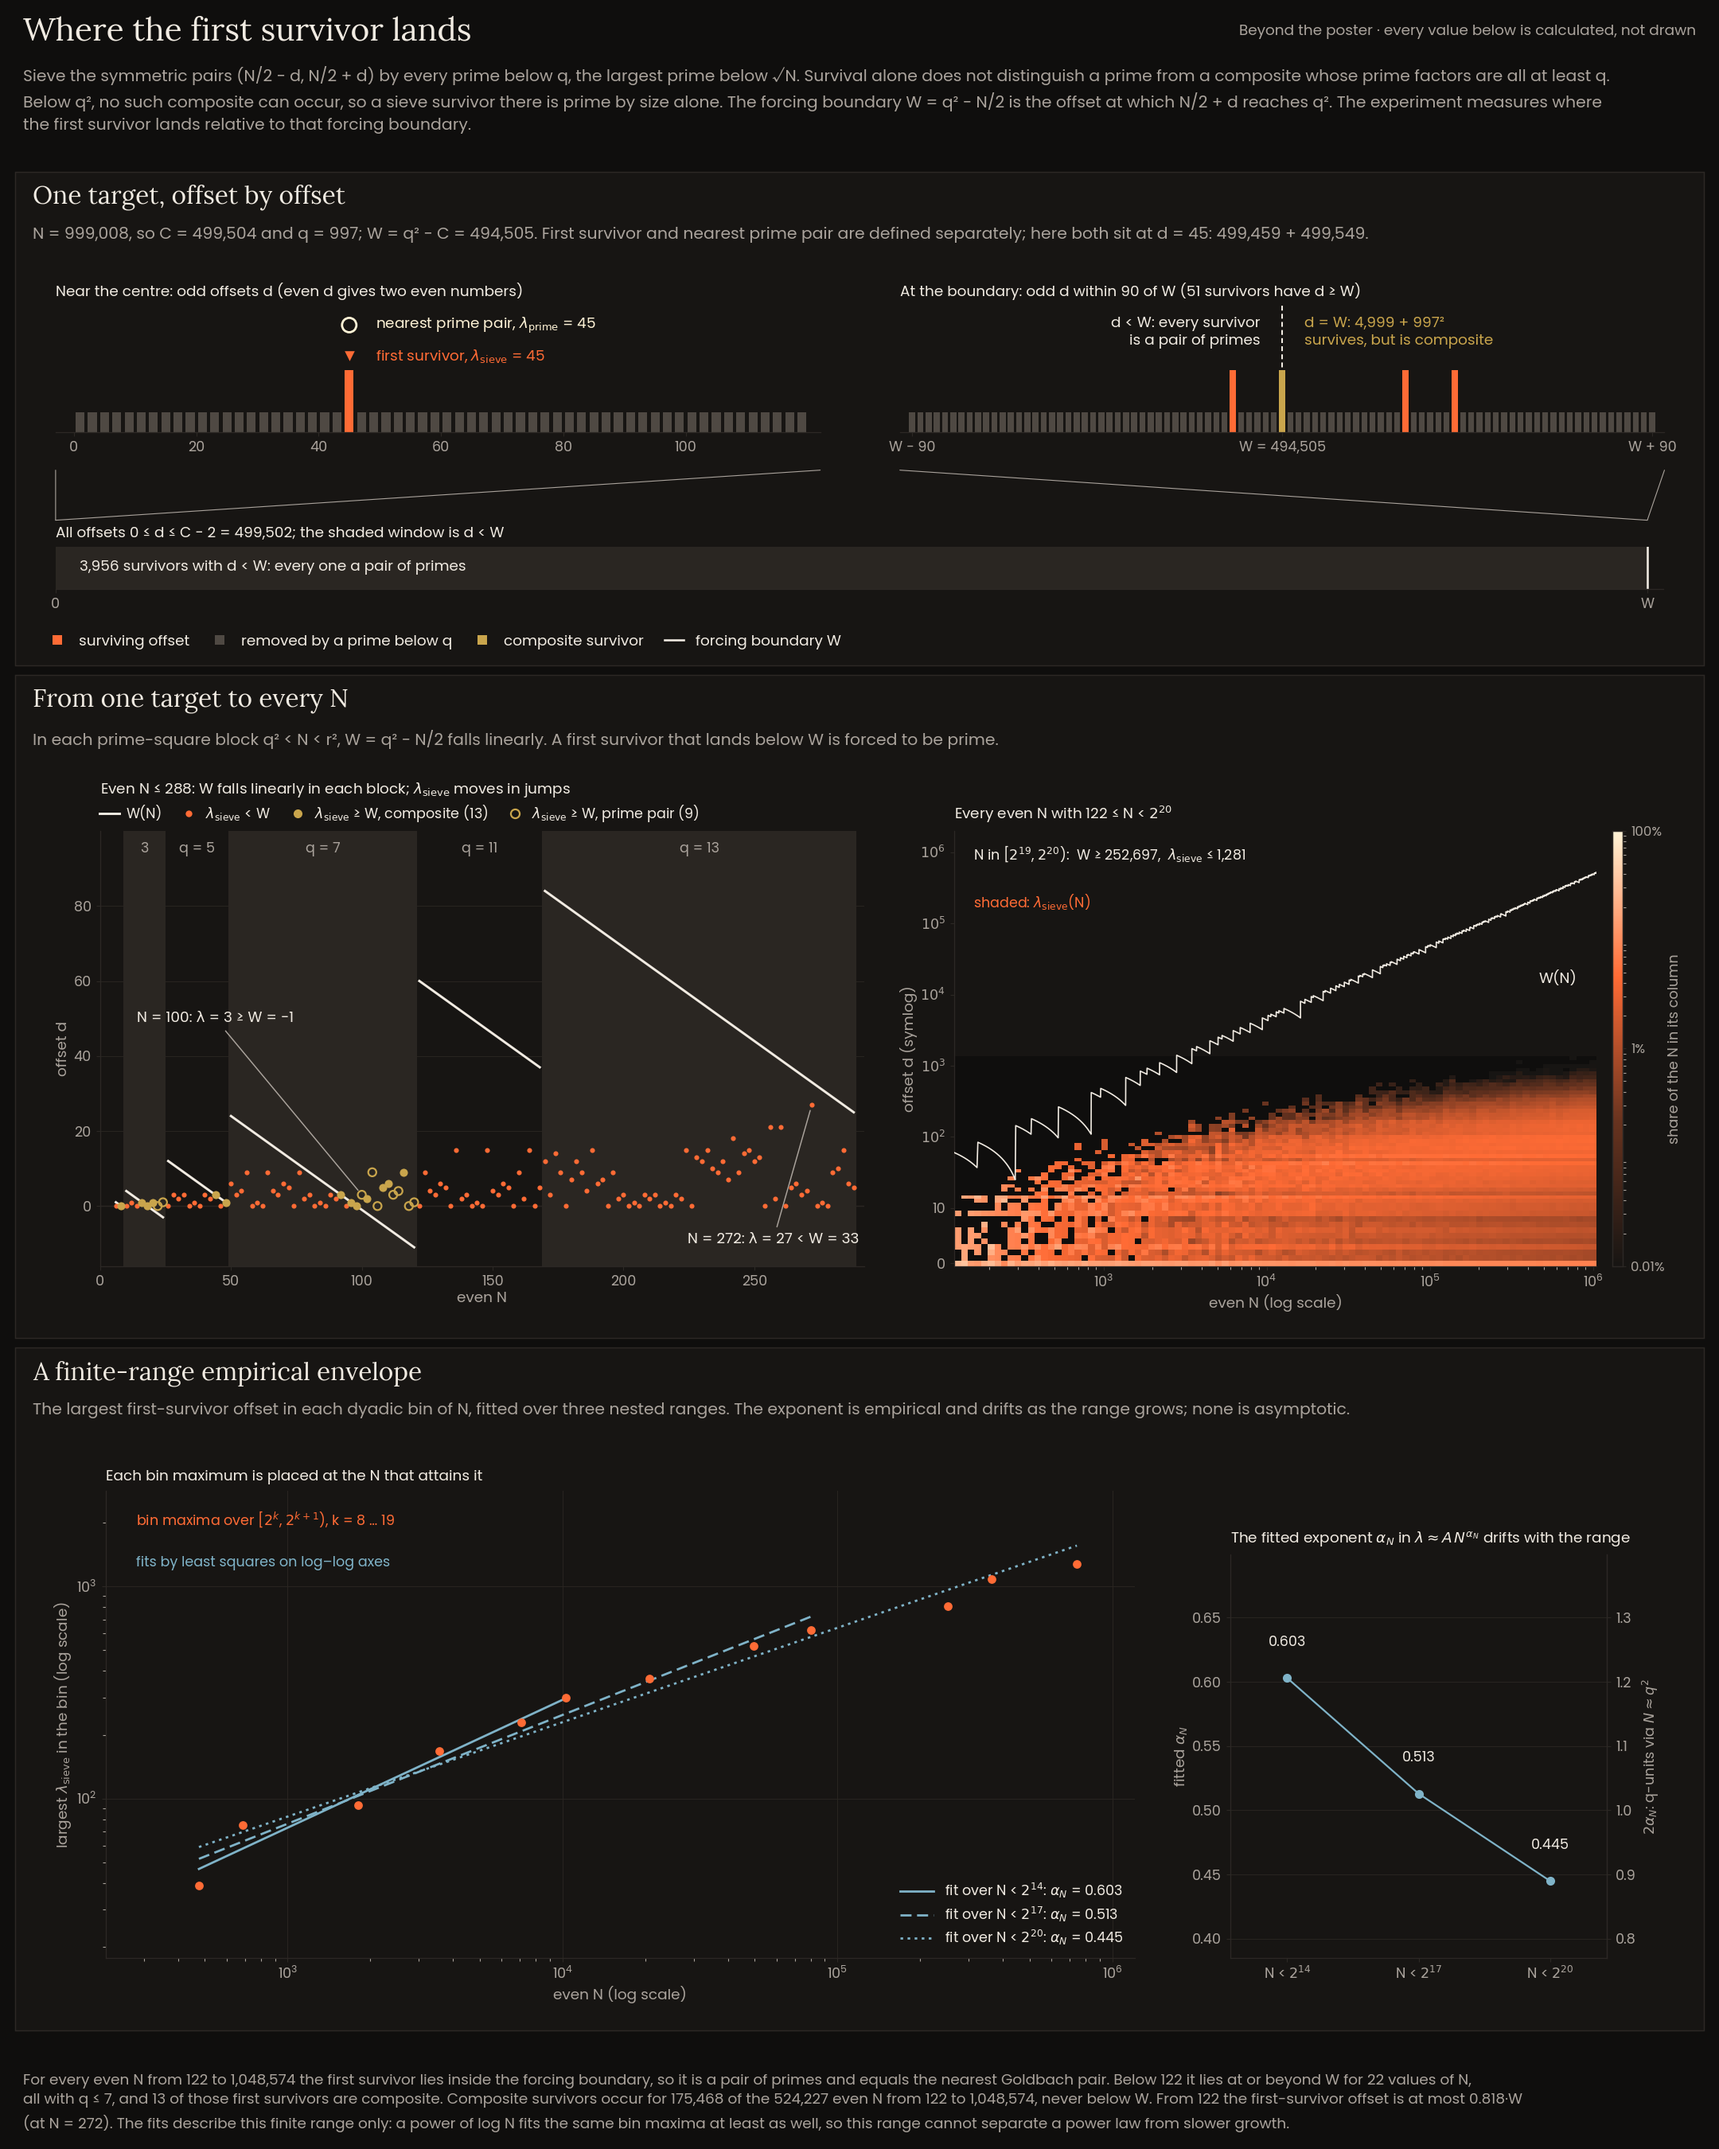
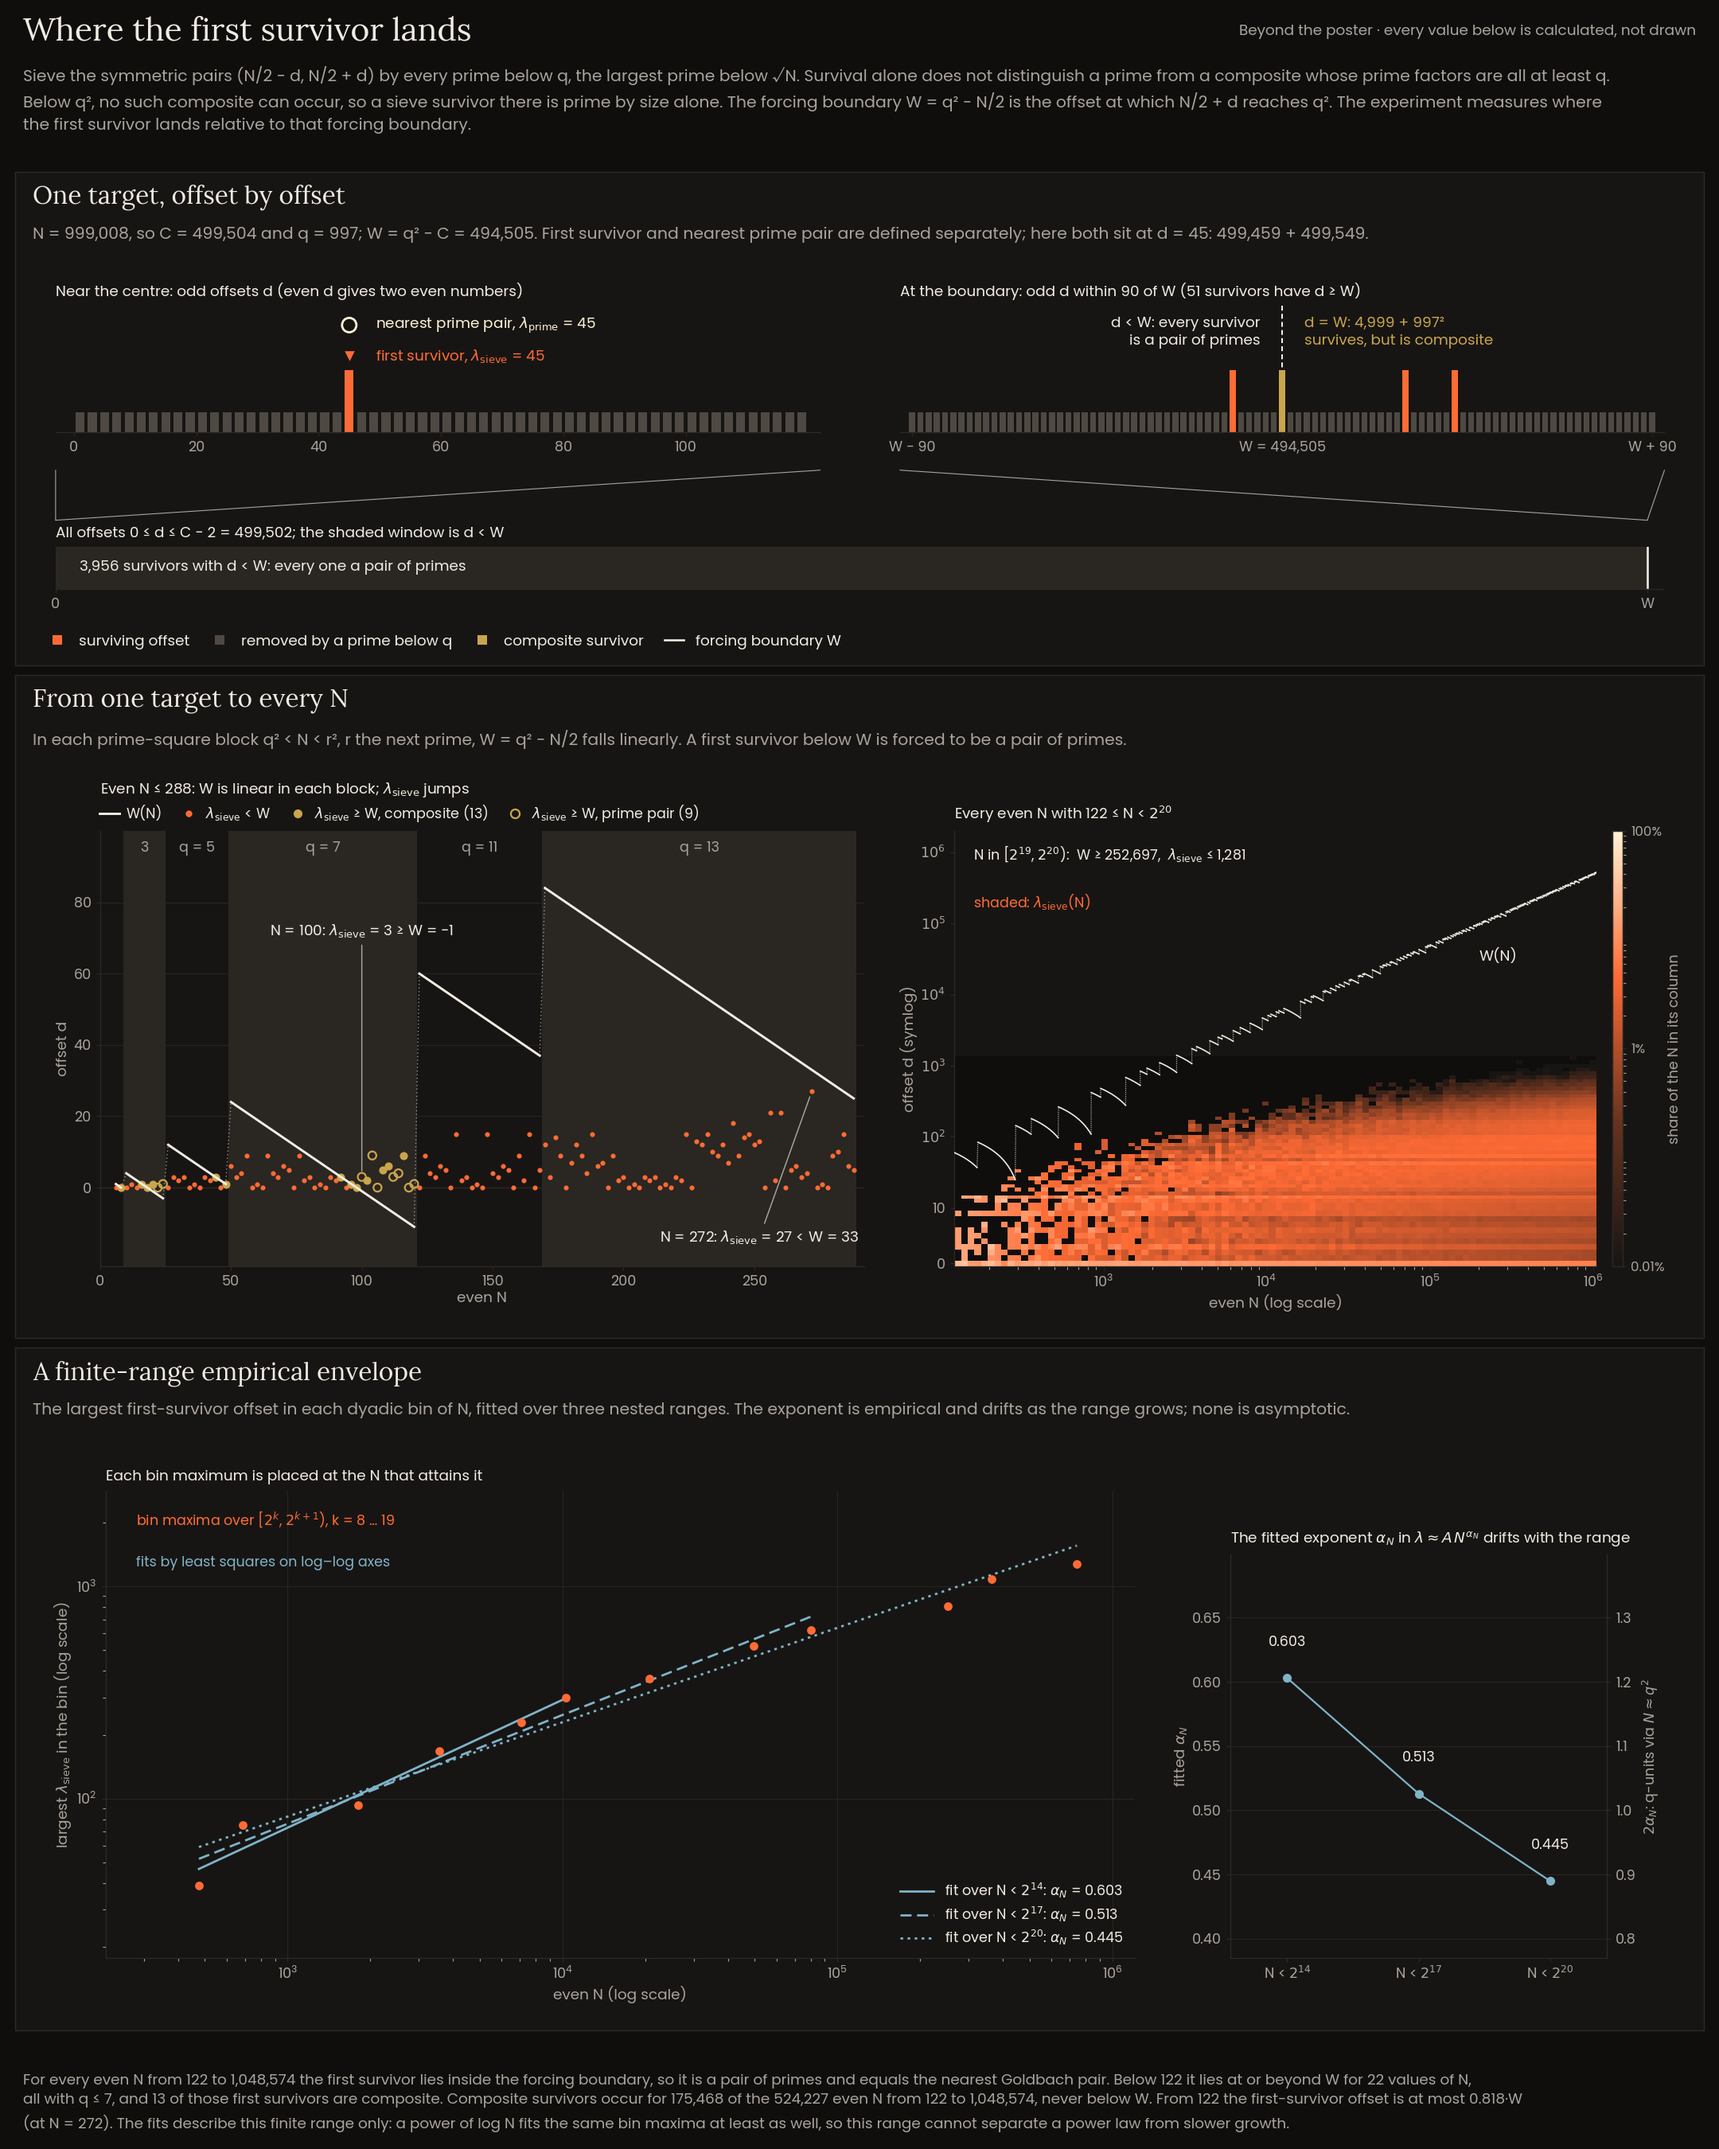
Refine first-survivor panel

diff --git a/extras/first_survivor_experiment/render.py b/extras/first_survivor_experiment/render.py
@@ -163,6 +163,18 @@ def draw_example(fig, rect, e, geo, portrait):
 
 # ---- panel B: forcing boundary against first survivor
 
+def draw_w(ax, N, q, W, lw, zorder, rasterized=False, dots=(1, 2.5)):
+    """W(N) as one straight segment per prime-square block. The reset at each q² is a
+    jump, drawn faint and dotted beneath the segments, not part of W. Short resets
+    need denser dots to show at all."""
+    cuts = np.flatnonzero(np.diff(q)) + 1
+    for n, w in zip(np.split(N, cuts), np.split(W, cuts)):
+        ax.plot(n, w, color=col("boundary"), lw=lw, zorder=zorder, rasterized=rasterized, gid="boundary")
+    gap = np.full(len(cuts), np.nan)
+    ax.plot(np.column_stack([N[cuts - 1], N[cuts], gap]).ravel(), np.column_stack([W[cuts - 1], W[cuts], gap]).ravel(),
+            color=col("MUTED"), lw=0.7, ls=(0, dots), zorder=zorder - 0.5, rasterized=rasterized)
+
+
 def draw_small(fig, rect, d, r, small_max):
     """Linear view of the complete prime-square blocks up to small_max."""
     ax = inset(fig, rect, r)
@@ -171,7 +183,7 @@ def draw_small(fig, rect, d, r, small_max):
     s = sw.N <= small_max
     N, q, W, lam = sw.N[s], sw.q[s], sw.W[s], sw.lam_sieve[s]
     ax.set_xlim(0, small_max + 4)
-    ax.set_ylim(-16, 100)
+    ax.set_ylim(-22, 100)
     x0, x1 = ax.get_xlim()
     width_in = r[2] / (x1 - x0)
     ax.axhline(0, color=col("BORDER"), lw=0.8, zorder=1)
@@ -179,11 +191,11 @@ def draw_small(fig, rect, d, r, small_max):
         b = q == qq
         if i % 2:
             ax.axvspan(N[b][0] - 1, N[b][-1] + 1, color=col("GRID"), lw=0, zorder=0)
-        ax.plot(N[b], W[b], color=col("boundary"), lw=1.6, zorder=2, gid="boundary")
         mid, wid = (N[b][0] + N[b][-1]) / 2, (N[b][-1] - N[b][0] + 2) * width_in
         if wid > 0.12:
             ax.text(mid, 97, f"q = {qq}" if wid > 0.42 else str(qq), fontsize=FS["tick"], color=col("MUTED"),
                     ha="center", va="top")
+    draw_w(ax, N, q, W, lw=1.6, zorder=6)       # above the points, so the early blocks' W stays visible
     comp = np.isin(N, d.composite_first)
     out = np.isin(N, d.prime_outside)
     ok = ~(comp | out)
@@ -191,13 +203,15 @@ def draw_small(fig, rect, d, r, small_max):
     ax.scatter(N[comp], lam[comp], s=30, color=col("exception"), lw=0, zorder=5, gid="exception")
     ax.scatter(N[out], lam[out], s=30, facecolors="none", edgecolors=col("exception"), lw=1.2, zorder=5,
                gid="exception")
+    # Callouts: N = 100 from the open space above, its leader vertical so it crosses
+    # no W segment; N = 272 below the λ = 0 row, clear of it.
     i = int(np.searchsorted(N, 100))
-    ax.annotate(f"N = 100: λ = {lam[i]} ≥ W = {W[i]}".replace("-", "−"), xy=(100, lam[i]),
-                xytext=(14, 50), fontsize=FS["small"], color=col("TEXT"), va="center",
+    ax.annotate(f"N = 100: {LS} = {lam[i]} ≥ W = {W[i]}".replace("-", "−"), xy=(100, lam[i]),
+                xytext=(100, 72), ha="center", fontsize=FS["small"], color=col("TEXT"), va="center",
                 arrowprops=dict(arrowstyle="-", color=col("MUTED"), lw=0.8, shrinkA=2, shrinkB=4))
     k = int(np.searchsorted(N, d.max_ratio_N))
-    ax.annotate(f"N = {d.max_ratio_N}: λ = {lam[k]} < W = {W[k]}", xy=(d.max_ratio_N, lam[k]),
-                xytext=(small_max + 2, -9), ha="right", fontsize=FS["small"], color=col("TEXT"), va="center",
+    ax.annotate(f"N = {d.max_ratio_N}: {LS} = {lam[k]} < W = {W[k]}", xy=(d.max_ratio_N, lam[k]),
+                xytext=(small_max + 2, -14), ha="right", fontsize=FS["small"], color=col("TEXT"), va="center",
                 arrowprops=dict(arrowstyle="-", color=col("MUTED"), lw=0.8, shrinkA=2, shrinkB=4))
     ax.set_yticks([0, 20, 40, 60, 80])
     ax.set_xlabel("even N", labelpad=2)
@@ -224,7 +238,7 @@ def draw_large(fig, rect, d, r, rc):
                          norm=LogNorm(vmin=1e-4, vmax=1), zorder=1)
     sw = d.sweep
     s = sw.N >= d.min_N
-    ax.plot(sw.N[s], sw.W[s], color=col("boundary"), lw=0.9, zorder=3, rasterized=True, gid="boundary")
+    draw_w(ax, sw.N[s], sw.q[s], sw.W[s], lw=0.9, zorder=3, rasterized=True, dots=(1, 1))
     ax.set_xscale("log"); ax.set_yscale("symlog", linthresh=10, linscale=0.7)
     ax.set_xlim(h.x_edges[0], h.x_edges[-1])
     ax.set_ylim(-0.5, 2e6)
@@ -240,8 +254,9 @@ def draw_large(fig, rect, d, r, rc):
             color=col("TEXT"), va="top")
     ax.text(0.03, 0.86, f"shaded: {LS}(N)", transform=ax.transAxes,
             fontsize=FS["tick"], color=col("surviving"), va="top", gid="surviving")
-    ax.text(0.97, 0.66, "W(N)", transform=ax.transAxes, fontsize=FS["small"], color=col("boundary"),
-            ha="right", va="center", gid="boundary")
+    j = int(np.searchsorted(sw.N, 2e5))         # the label sits just below the line
+    ax.text(sw.N[j], sw.W[j] / 2.2, "W(N)", fontsize=FS["small"], color=col("boundary"),
+            ha="left", va="top", gid="boundary")
     cax = inset(fig, rect, rc, spines=())
     cb = fig.colorbar(mesh, cax=cax)
     cb.outline.set_edgecolor(col("BORDER"))
@@ -256,7 +271,7 @@ def draw_boundary(fig, rect, d, geo, small_max, portrait):
     small.legend(handles=handles, loc="lower left", bbox_to_anchor=(-0.01, 1.0), frameon=False,
                  fontsize=FS["tick"], handlelength=1.4, borderaxespad=0.1, labelspacing=0.3, handletextpad=0.5,
                  columnspacing=1.2, ncol=4 if portrait else 2)
-    label_above(small, f"Even N ≤ {small_max}: W falls linearly in each block; {LS} moves in jumps",
+    label_above(small, f"Even N ≤ {small_max}: W is linear in each block; {LS} jumps",
                 pad_in=0.48 if not portrait else 0.3)
     large = draw_large(fig, rect, d, geo["large"], geo["colorbar"])
     label_above(large, f"Every even N with {d.min_N} ≤ N < {pow2(d.n_max.bit_length() - 1)}")
@@ -386,8 +401,8 @@ def build_figure(name, d, small_max=288):
                   f"{keep(f'{e.C - e.lam_prime:,} + {e.C + e.lam_prime:,}')}."))
     axes.update(draw_example(fig, cs["example"], e, geo["example"], portrait))
     card(fig, cs["boundary"], "From one target to every N", subtitle(
-        portrait, f"In each prime-square block {keep('q² < N < r²')}, {keep('W = q² − N/2')} falls linearly. "
-                  "A first survivor that lands below W is forced to be prime."))
+        portrait, f"In each prime-square block {keep('q² < N < r²')}, r the next prime, {keep('W = q² − N/2')} "
+                  "falls linearly. A first survivor below W is forced to be a pair of primes."))
     axes.update(draw_boundary(fig, cs["boundary"], d, geo["boundary"], small_max, portrait))
     card(fig, cs["envelope"], "A finite-range empirical envelope", subtitle(
         portrait, "The largest first-survivor offset in each dyadic bin of N, fitted over three nested "

diff --git a/tests/test_first_survivor_figures.py b/tests/test_first_survivor_figures.py
@@ -95,7 +95,20 @@ def test_small_view_shows_blocks_and_points(figure, first_survivor):
     assert points(ax, "exception", hollow=False) == rounded(zip(N[comp], lam[comp]))
     assert points(ax, "exception", hollow=True) == rounded(zip(N[out], lam[out]))
     ann = {t.get_text() for t in ax.texts if hasattr(t, "xy")}
-    assert ann == {"N = 100: λ = 3 ≥ W = −1", "N = 272: λ = 27 < W = 33"}
+    assert ann == {r"N = 100: $\lambda_{\mathrm{sieve}}$ = 3 ≥ W = −1", r"N = 272: $\lambda_{\mathrm{sieve}}$ = 27 < W = 33"}
+    assert_resets(ax, N, q, W)
+
+
+def assert_resets(ax, N, q, W):
+    """The resets at each q² are one dotted line, not part of W, joining the end of
+    each block's segment to the start of the next."""
+    (resets,) = [ln for ln in ax.lines if ln.get_gid() is None and ln.get_color() == col("MUTED")]
+    assert resets.is_dashed()
+    cuts = np.flatnonzero(np.diff(q)) + 1
+    x, y = resets.get_xdata().reshape(-1, 3), resets.get_ydata().reshape(-1, 3)
+    assert np.array_equal(x[:, :2], np.column_stack([N[cuts - 1], N[cuts]]))
+    assert np.array_equal(y[:, :2], np.column_stack([W[cuts - 1], W[cuts]]))
+    assert np.isnan(x[:, 2]).all()
 
 
 def test_large_view_shows_the_distribution_and_w(figure, first_survivor):
@@ -106,8 +119,12 @@ def test_large_view_shows_the_distribution_and_w(figure, first_survivor):
     assert np.allclose(mesh.get_array().filled(0).reshape(d.histogram.share.shape), d.histogram.share)
     sw = d.sweep
     s = sw.N >= d.min_N
-    (w,) = lines_with(ax, "boundary")
-    assert np.array_equal(w.get_xdata(), sw.N[s]) and np.array_equal(w.get_ydata(), sw.W[s])
+    N, q, W = sw.N[s], sw.q[s], sw.W[s]
+    segs = lines_with(ax, "boundary")
+    assert len(segs) == len(np.unique(q))                            # W broken at every reset
+    for seg, qq in zip(segs, np.unique(q)):
+        assert np.array_equal(seg.get_xdata(), N[q == qq]) and np.array_equal(seg.get_ydata(), W[q == qq])
+    assert_resets(ax, N, q, W)
     assert ax.get_yscale() == "symlog" and ax.get_xscale() == "log"
     assert ax.get_ylim()[0] < 0                                       # the λ = 0 row is on the axes
 
